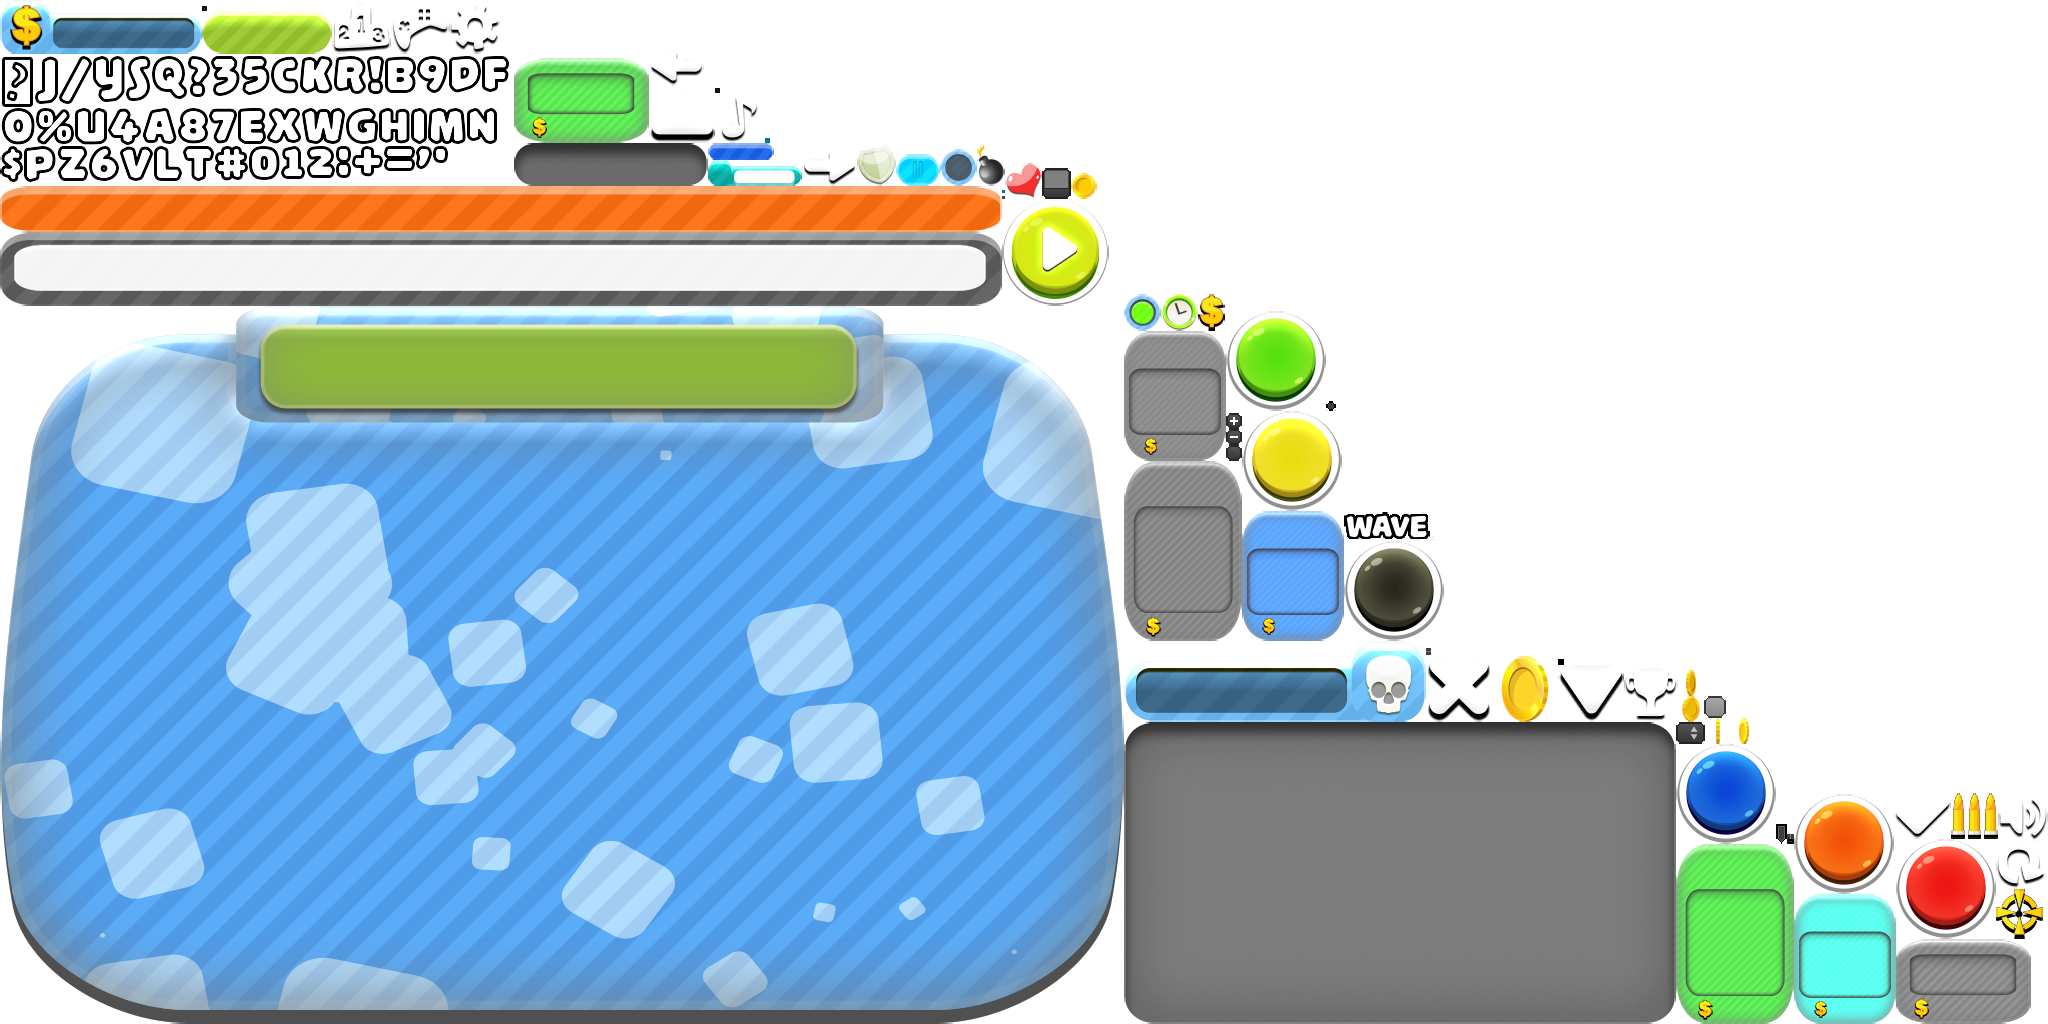
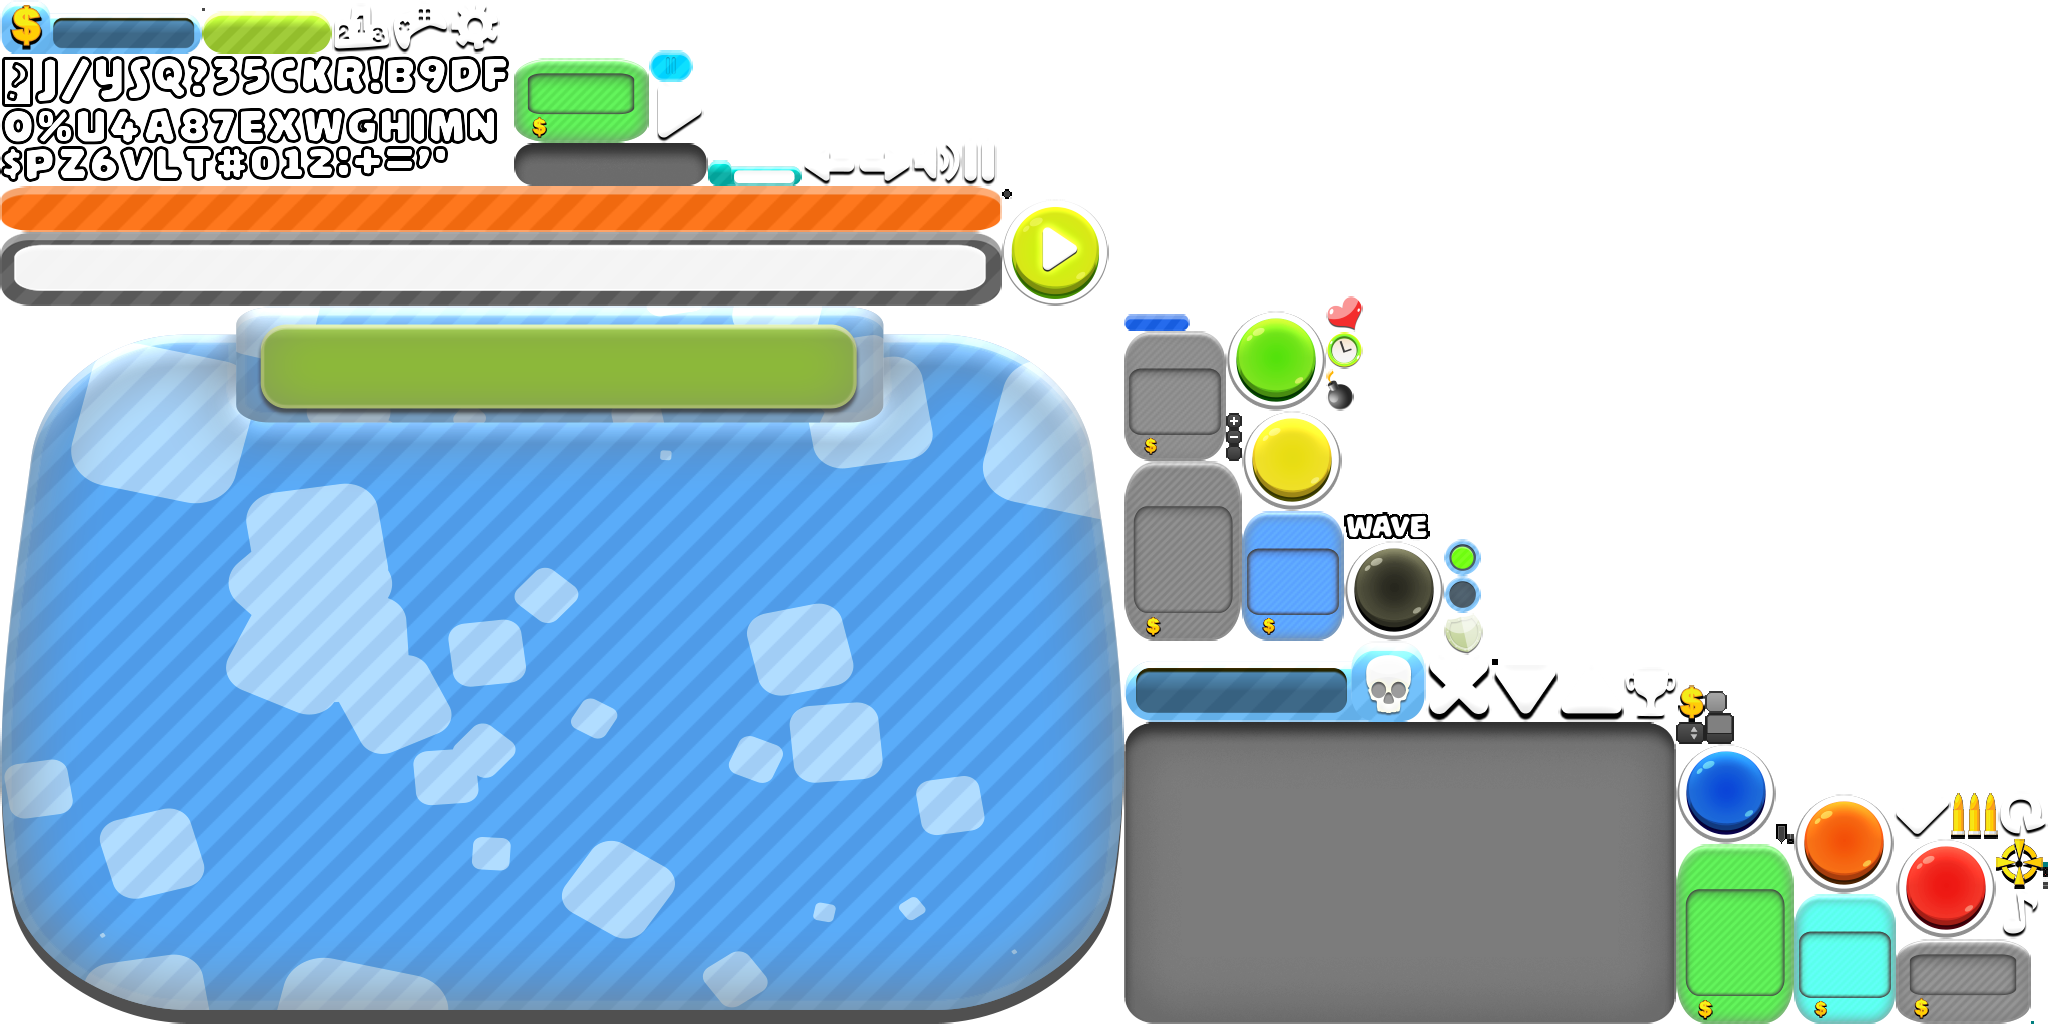
205 - added pause button and made bug fixes

diff --git a/core/src/com/foxholedefense/game/ui/view/HUDView.java b/core/src/com/foxholedefense/game/ui/view/HUDView.java
@@ -1,7 +1,6 @@
 package com.foxholedefense.game.ui.view;
 
 import com.badlogic.gdx.graphics.Color;
-import com.badlogic.gdx.scenes.scene2d.actions.Actions;
 import com.badlogic.gdx.scenes.scene2d.Group;
 import com.badlogic.gdx.scenes.scene2d.InputEvent;
 import com.badlogic.gdx.scenes.scene2d.Touchable;
@@ -16,6 +15,7 @@ import com.badlogic.gdx.utils.Align;
 import com.badlogic.gdx.utils.Scaling;
 import com.foxholedefense.game.ui.presenter.HUDPresenter;
 import com.foxholedefense.game.ui.view.interfaces.IHUDView;
+import com.foxholedefense.util.ActorUtil;
 import com.foxholedefense.util.Logger;
 import com.foxholedefense.util.Resources;
 
@@ -27,13 +27,13 @@ import com.foxholedefense.util.Resources;
  */
 public class HUDView extends Group implements IHUDView {
 
-	private static final float MESSAGE_DURATION = 2;
 	private Image imgMoney, imgLife;
-	private ImageButton btnWave, btnEnlist, btnSupport, btnOptions;
+	private ImageButton btnWave, btnEnlist, btnSupport, btnOptions, btnPause, btnResume;
 	private Label lblMoney, lblLives, lblWaveCount;
 	private HUDPresenter presenter;
 	private Resources resources;
 	private Label messageLabel;
+	private boolean paused;
 	public HUDView(HUDPresenter presenter,Skin skin, Resources resources) {
 		this.presenter = presenter;
 		this.setTransform(false);
@@ -63,6 +63,22 @@ public class HUDView extends Group implements IHUDView {
 		btnWave.setPosition(10,10);
 		setBtnWaveListener();
 		addActor(btnWave);
+
+		btnPause = new ImageButton(skin, "pause");
+		btnPause.setSize(50,50);
+		btnPause.getImageCell().size(17,23);
+		btnPause.getImage().setScaling(Scaling.stretch);
+		btnPause.setPosition(10, 10);
+		setBtnPauseListener();
+		addActor(btnPause);
+
+		btnResume = new ImageButton(skin, "resume");
+		btnResume.setSize(50,50);
+		btnResume.getImageCell().size(27,30);
+		btnResume.getImage().setScaling(Scaling.stretch);
+		btnResume.setPosition(10, 10);
+		setBtnResumeListener();
+		addActor(btnResume);
 
 		btnEnlist = new ImageButton(skin, "enlist_hud");
 		btnEnlist.setSize(50, 50);
@@ -121,6 +137,31 @@ public class HUDView extends Group implements IHUDView {
 		Logger.info("HUD View: controls created");
 	}
 
+	private void setBtnResumeListener() {
+		btnResume.addListener(new ClickListener() {
+			@Override
+			public void touchUp(InputEvent event, float x, float y, int pointer, int button) {
+				super.touchUp(event, x, y, pointer, button);
+				presenter.resume();
+				btnResume.setVisible(false);
+				btnPause.setVisible(true);
+				paused = false;
+			}
+		});
+	}
+
+	private void setBtnPauseListener() {
+		btnPause.addListener(new ClickListener() {
+			@Override
+			public void touchUp(InputEvent event, float x, float y, int pointer, int button) {
+				super.touchUp(event, x, y, pointer, button);
+				presenter.pause();
+				btnResume.setVisible(true);
+				btnPause.setVisible(false);
+				paused = true;
+			}
+		});
+	}
 
 	private void setBtnOptionsListener() {
 		btnOptions.addListener(new ClickListener() {
@@ -163,11 +204,16 @@ public class HUDView extends Group implements IHUDView {
 			}
 		});
 	}
-	private void setButtonsVisible(boolean visible){
+	private void setNormalButtonsVisible(boolean visible){
 		btnEnlist.setVisible(visible);
 		btnSupport.setVisible(visible);
 		btnWave.setVisible(visible);
 		btnOptions.setVisible(visible);
+	}
+
+	private void setPauseResumeButtonsVisible(boolean visible){
+		btnResume.setVisible(visible);
+		btnPause.setVisible(visible);
 	}
 	@Override
 	public void setMoney(String money) {
@@ -190,21 +236,26 @@ public class HUDView extends Group implements IHUDView {
 		btnSupport.setTouchable(Touchable.enabled);
 		btnWave.setTouchable(Touchable.enabled);
 		btnOptions.setTouchable(Touchable.enabled);
-		setButtonsVisible(true);
+		btnPause.setVisible(false);
+		btnResume.setVisible(false);
+		setNormalButtonsVisible(true);
 	}
 	@Override
 	public void supportState() {
-		setButtonsVisible(false);
+		setNormalButtonsVisible(false);
+		setPauseResumeButtonsVisible(false);
 	}
 	
 	@Override
 	public void enlistingState() {
-		setButtonsVisible(false);
+		setNormalButtonsVisible(false);
+		setPauseResumeButtonsVisible(false);
 	}
 	
 	@Override
 	public void inspectingState() {
-		setButtonsVisible(false);
+		setNormalButtonsVisible(false);
+		setPauseResumeButtonsVisible(false);
 	}
 
 	@Override
@@ -212,6 +263,9 @@ public class HUDView extends Group implements IHUDView {
 		btnEnlist.setTouchable(Touchable.disabled);
 		btnSupport.setTouchable(Touchable.disabled);
 		btnWave.setTouchable(Touchable.disabled);
+		btnPause.setTouchable(Touchable.disabled);
+		btnResume.setTouchable(Touchable.disabled);
+
 	}
 
 	@Override
@@ -220,6 +274,8 @@ public class HUDView extends Group implements IHUDView {
 		btnSupport.setTouchable(Touchable.disabled);
 		btnWave.setTouchable(Touchable.disabled);
 		btnOptions.setTouchable(Touchable.disabled);
+		btnPause.setTouchable(Touchable.disabled);
+		btnResume.setTouchable(Touchable.disabled);
 	}
 
 	@Override
@@ -228,15 +284,14 @@ public class HUDView extends Group implements IHUDView {
 		btnSupport.setTouchable(Touchable.enabled);
 		btnWave.setTouchable(Touchable.enabled);
 		btnOptions.setTouchable(Touchable.enabled);
+		btnPause.setTouchable(Touchable.enabled);
+		btnResume.setTouchable(Touchable.enabled);
 		btnWave.setVisible(false);
 		btnEnlist.setVisible(true);
 		btnSupport.setVisible(true);
 		btnOptions.setVisible(true);
-	}
-
-	public enum MessageColor{
-
-
+		btnPause.setVisible(!paused);
+		btnResume.setVisible(paused);
 
 	}
 }

diff --git a/core/src/com/foxholedefense/game/ui/view/OptionsView.java b/core/src/com/foxholedefense/game/ui/view/OptionsView.java
@@ -28,7 +28,7 @@ import com.foxholedefense.util.Resources;
  */
 public class OptionsView extends Group implements IOptionsView {
 	private OptionsPresenter presenter;
-	private TextButton btnResume, btnNewGame, btnMainMenu;
+	private TextButton btnClose, btnNewGame, btnMainMenu;
 	private CheckBox btnShowRanges, btnSound, btnMusic;
 	private Image volSliderBg, speedSliderBg;
 	private float volSliderEndPos, volSliderStartPos, speedSliderEndPos, speedSliderStartPos;
@@ -79,17 +79,17 @@ public class OptionsView extends Group implements IOptionsView {
 		lblTitle.setFontScale(0.7f);
 		this.addActor(lblTitle);
 
-		btnResume = new TextButton("RESUME",skin);
-		btnResume.getLabel().setFontScale(0.45f);
-		btnResume.pack();
-		btnResume.setPosition(112,20);
-		addActor(btnResume);
-		setBtnResumeListener();
+		btnClose = new TextButton("CLOSE",skin);
+		btnClose.getLabel().setFontScale(0.45f);
+		btnClose.pack();
+		btnClose.setPosition(112,20);
+		addActor(btnClose);
+		setBtnCloseListener();
 		
 		btnNewGame = new TextButton("NEW GAME",skin);
 		btnNewGame.getLabel().setFontScale(0.45f);
 		btnNewGame.pack();
-		btnNewGame.setPosition(btnResume.getX() + btnResume.getWidth() + 15, btnResume.getY());
+		btnNewGame.setPosition(btnClose.getX() + btnClose.getWidth() + 15, btnClose.getY());
 		addActor(btnNewGame);
 		setBtnNewGameListener();
 
@@ -246,12 +246,12 @@ public class OptionsView extends Group implements IOptionsView {
 		return volumeStack;
 	}
 
-	private void setBtnResumeListener() {
-		btnResume.addListener(new ClickListener() {
+	private void setBtnCloseListener() {
+		btnClose.addListener(new ClickListener() {
 			@Override
 			public void touchUp(InputEvent event, float x, float y, int pointer, int button) {
 				super.touchUp(event, x, y, pointer, button);
-				presenter.resumeGame();
+				presenter.closeOptions();
 			}
 		});
 

diff --git a/core/src/com/foxholedefense/game/ui/presenter/HUDPresenter.java b/core/src/com/foxholedefense/game/ui/presenter/HUDPresenter.java
@@ -31,17 +31,14 @@ public class HUDPresenter implements IGameUIStateObserver, IPlayerObserver {
 	private GameUIStateManager uiStateManager;
 	private GameStateManager gameStateManager;
 	private Player player;
-	private boolean doubleSpeedEnabled = false;
 	private IHUDView view;
 	private FHDAudio audio;
-	private Resources resources;
-	public HUDPresenter(GameUIStateManager uiStateManager, LevelStateManager levelStateManager, GameStateManager gameStateManager, Player player, Resources resources, FHDAudio audio) {
+	public HUDPresenter(GameUIStateManager uiStateManager, LevelStateManager levelStateManager, GameStateManager gameStateManager, Player player, FHDAudio audio) {
 		this.levelStateManager = levelStateManager;
 		this.uiStateManager = uiStateManager;
 		uiStateManager.attach(this);
 		this.gameStateManager = gameStateManager;
 		this.player = player;
-		this.resources = resources;
 		this.audio = audio;
 		player.attachObserver(this);
 	}
@@ -58,14 +55,30 @@ public class HUDPresenter implements IGameUIStateObserver, IPlayerObserver {
 	}
 
 	/**
-	 * Show the options view. Also pause the Game.
+	 * Pauses the game
+	 */
+	public void pause() {
+		Logger.info("HUD Presenter: pause");
+		audio.playSound(FHDSound.SMALL_CLICK);
+		gameStateManager.setState(GameState.PAUSE);
+	}
+
+	/**
+	 * Resumes the game
+	 */
+	public void resume() {
+		Logger.info("HUD Presenter: resume");
+		audio.playSound(FHDSound.SMALL_CLICK);
+		gameStateManager.setState(GameState.PLAY);
+	}
+
+	/**
+	 * Show the options view.
 	 */
 	public void options() {
 		Logger.info("HUD Presenter: options");
 		audio.playSound(FHDSound.SMALL_CLICK);
 		uiStateManager.setState(GameUIState.OPTIONS);
-		gameStateManager.setState(GameState.PAUSE);
-
 	}
 
 	/**

diff --git a/core/src/com/foxholedefense/game/ui/GameUIStage.java b/core/src/com/foxholedefense/game/ui/GameUIStage.java
@@ -81,7 +81,7 @@ public class GameUIStage extends Stage implements IGameUIStateObserver{
 		Logger.info("GameUIStage: creating ui");
 		Skin skin = resources.getSkin();
 
-		HUDPresenter hudPresenter = new HUDPresenter(uiStateManager, levelStateManager, gameStateManager, player, resources, audio);
+		HUDPresenter hudPresenter = new HUDPresenter(uiStateManager, levelStateManager, gameStateManager, player, audio);
 		HUDView hudView = new HUDView(hudPresenter, skin, resources);
 		hudPresenter.setView(hudView);
 

diff --git a/core/src/com/foxholedefense/game/ui/presenter/OptionsPresenter.java b/core/src/com/foxholedefense/game/ui/presenter/OptionsPresenter.java
@@ -56,12 +56,11 @@ public class OptionsPresenter implements IGameUIStateObserver {
 	}
 
 	/**
-	 * Resume the game
+	 * Close options window
 	 */
-	public void resumeGame() {
-		Logger.info("Options Presenter: resume game");
+	public void closeOptions() {
+		Logger.info("Options Presenter: close options");
 		audio.playSound(FHDSound.SMALL_CLICK);
-		gameStateManager.setState(GameState.PLAY);
 		uiStateManager.setStateReturn();
 	}
 

diff --git a/core/src/com/foxholedefense/game/ui/presenter/SupportPresenter.java b/core/src/com/foxholedefense/game/ui/presenter/SupportPresenter.java
@@ -243,6 +243,7 @@ public class SupportPresenter implements IGameUIStateObserver {
 		case GAME_OVER:
 		case LEVEL_COMPLETED:
 			cancelSupport(false);
+			view.standByState();
 			break;
 		default:
 			view.standByState();

diff --git a/core/src/com/foxholedefense/game/ui/presenter/EnlistPresenter.java b/core/src/com/foxholedefense/game/ui/presenter/EnlistPresenter.java
@@ -155,6 +155,7 @@ public class EnlistPresenter implements IGameUIStateObserver {
 				break;
 			case GAME_OVER:
 			case LEVEL_COMPLETED:
+				view.standByState();
 				cancelEnlist(false);
 				break;
 			default:

diff --git a/core/src/com/foxholedefense/game/model/actor/support/AirStrikeLocation.java b/core/src/com/foxholedefense/game/model/actor/support/AirStrikeLocation.java
@@ -62,6 +62,6 @@ public class AirStrikeLocation extends Actor {
 	public void clear () {
 		location.free();
 		pool.free(this);
-		super.clear();
+		showRange = true;
 	}
 }
